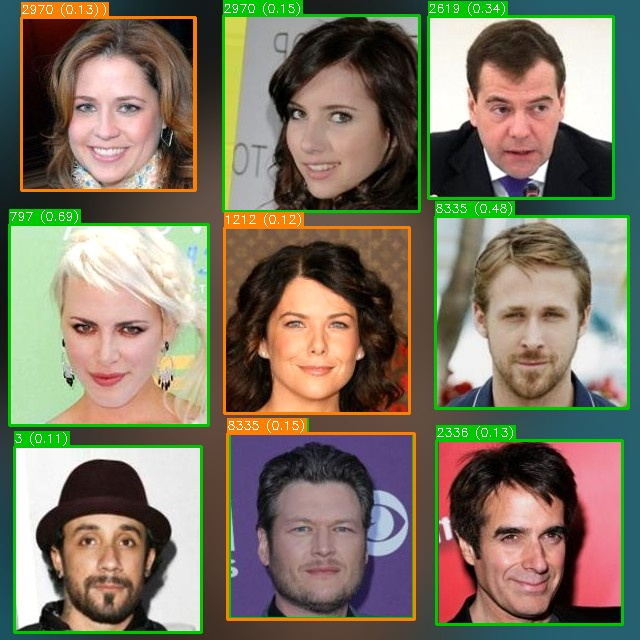
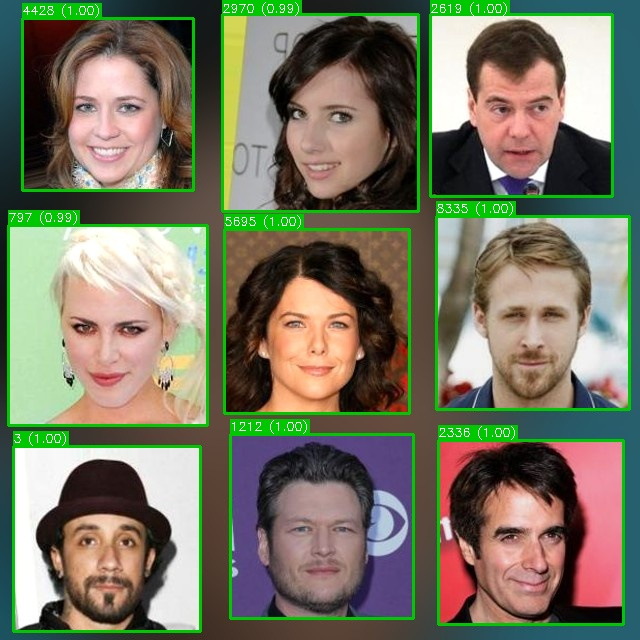
Revised Milestone 3 YOLO model

Changed region(s): [[0.0, 0.0, 1.0, 1.0], [0.9688, 0.6875, 1.0, 0.9688]]

diff --git a/Milestone_3/gallery/captions.md b/Milestone_3/gallery/captions.md
@@ -9,66 +9,66 @@
 ### 1. test/grid_0000.jpg
 
 - **Image:** `test_grid_0000.jpg`  
-- **Prediction:** 4 TP, 3 misclassified, 0 FP, 4 FN (missed)  
+- **Prediction:** 8 TP, 1 misclassified, 0 FP, 0 FN (missed)  
 - **Ground truth:** 9 faces (3 target)
 
 ### 2. test/grid_0005.jpg
 
 - **Image:** `test_grid_0005.jpg`  
-- **Prediction:** 5 TP, 3 misclassified, 0 FP, 3 FN (missed)  
+- **Prediction:** 9 TP, 2 misclassified, 0 FP, 0 FN (missed)  
 - **Ground truth:** 9 faces (3 target)
 
 ### 3. test/grid_0017.jpg
 
 - **Image:** `test_grid_0017.jpg`  
-- **Prediction:** 5 TP, 5 misclassified, 0 FP, 2 FN (missed)  
+- **Prediction:** 9 TP, 1 misclassified, 0 FP, 0 FN (missed)  
 - **Ground truth:** 9 faces (2 target)
 
 ### 4. val/grid_0001.jpg
 
 - **Image:** `val_grid_0001.jpg`  
-- **Prediction:** 2 TP, 2 misclassified, 0 FP, 6 FN (missed)  
+- **Prediction:** 9 TP, 2 misclassified, 0 FP, 0 FN (missed)  
 - **Ground truth:** 9 faces (3 target)
 
 ### 5. val/grid_0008.jpg
 
 - **Image:** `val_grid_0008.jpg`  
-- **Prediction:** 5 TP, 5 misclassified, 0 FP, 3 FN (missed)  
+- **Prediction:** 9 TP, 1 misclassified, 0 FP, 0 FN (missed)  
 - **Ground truth:** 9 faces (2 target)
 
 ### 6. val/grid_0015.jpg
 
 - **Image:** `val_grid_0015.jpg`  
-- **Prediction:** 2 TP, 3 misclassified, 0 FP, 6 FN (missed)  
+- **Prediction:** 9 TP, 0 misclassified, 0 FP, 0 FN (missed)  
 - **Ground truth:** 9 faces (5 target)
 
 ### 7. train/grid_0002.jpg
 
 - **Image:** `train_grid_0002.jpg`  
-- **Prediction:** 5 TP, 4 misclassified, 0 FP, 3 FN (missed)  
+- **Prediction:** 9 TP, 0 misclassified, 0 FP, 0 FN (missed)  
 - **Ground truth:** 9 faces (4 target)
 
 ### 8. train/grid_0003.jpg
 
 - **Image:** `train_grid_0003.jpg`  
-- **Prediction:** 6 TP, 3 misclassified, 0 FP, 3 FN (missed)  
+- **Prediction:** 9 TP, 0 misclassified, 0 FP, 0 FN (missed)  
 - **Ground truth:** 9 faces (3 target)
 
 ### 9. train/grid_0004.jpg
 
 - **Image:** `train_grid_0004.jpg`  
-- **Prediction:** 7 TP, 3 misclassified, 0 FP, 2 FN (missed)  
+- **Prediction:** 9 TP, 0 misclassified, 0 FP, 0 FN (missed)  
 - **Ground truth:** 9 faces (4 target)
 
 ### 10. train/grid_0006.jpg
 
 - **Image:** `train_grid_0006.jpg`  
-- **Prediction:** 6 TP, 3 misclassified, 0 FP, 3 FN (missed)  
+- **Prediction:** 9 TP, 0 misclassified, 0 FP, 0 FN (missed)  
 - **Ground truth:** 9 faces (3 target)
 
 ### 11. train/grid_0007.jpg
 
 - **Image:** `train_grid_0007.jpg`  
-- **Prediction:** 7 TP, 4 misclassified, 0 FP, 0 FN (missed)  
+- **Prediction:** 9 TP, 0 misclassified, 0 FP, 0 FN (missed)  
 - **Ground truth:** 9 faces (3 target)
 
